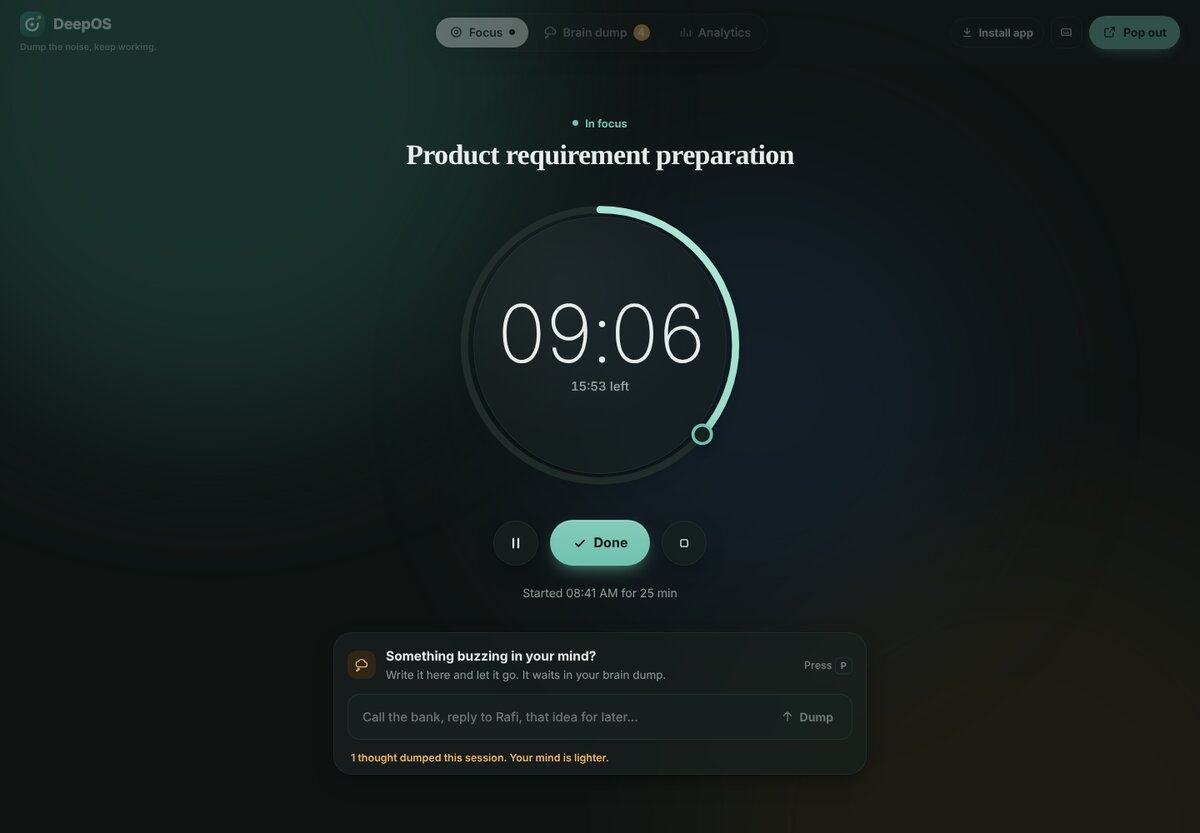
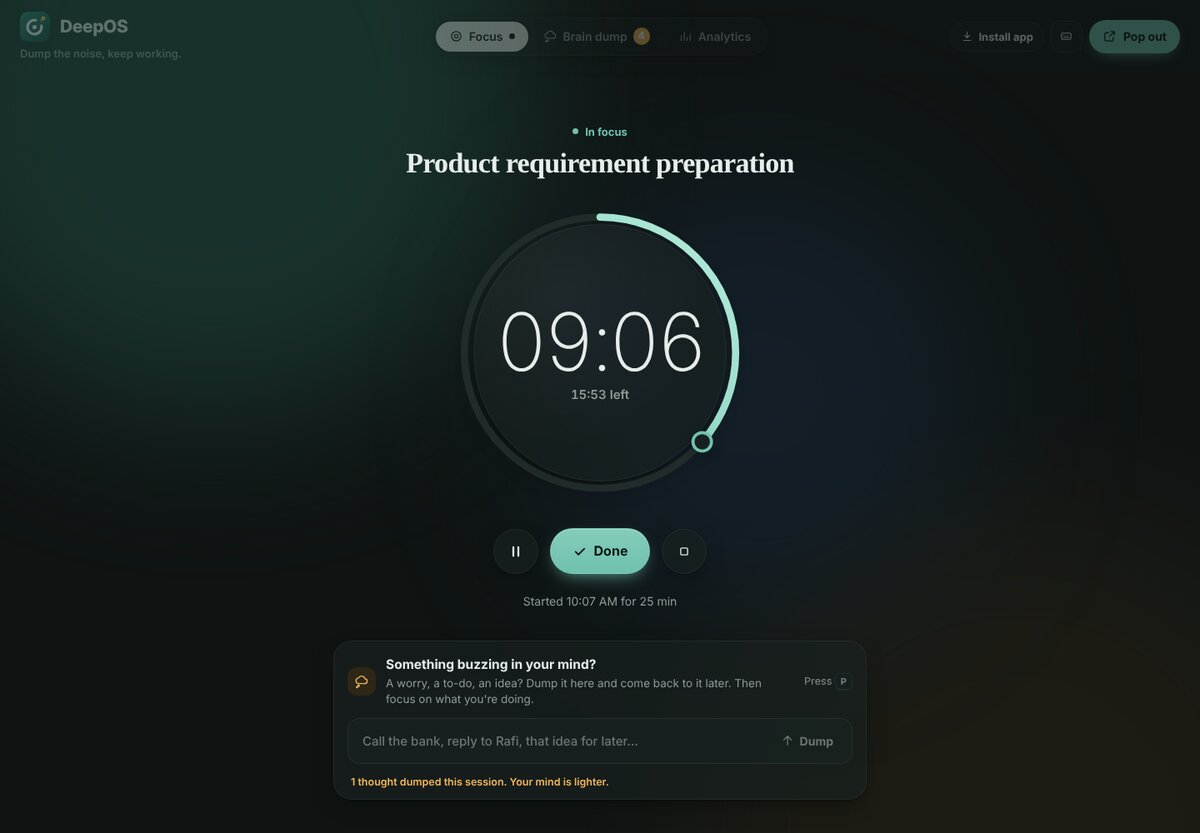
Dump box on the home screen; bigger brand with tagline everywhere
- Dump a thought before starting a session, not only during one (P works anytime)
- Friendlier explanation: 'A worry, a to-do, an idea? Dump it here and come back to it later. Then focus on what you're doing.'
- Larger logo, name and tagline; tagline now shows on tablets and phones
- README updated; screenshots refreshed

Claude-Session: https://claude.ai/code/session_01RPEeNiWPaepkLJj8Ye5Smc

diff --git a/src/components/ParkBox.tsx b/src/components/ParkBox.tsx
@@ -3,7 +3,7 @@ import { dispatch, useStore } from "../lib/store";
 import { ArrowUpIcon, ThoughtIcon } from "./Icons";
 
 interface Props {
-  task: string;
+  task: string | null;
   compact?: boolean;
 }
 
@@ -58,10 +58,10 @@ export const ParkBox = forwardRef<HTMLInputElement, Props>(function ParkBox({ ta
           </span>
           <div>
             <label htmlFor="park-input" className="park-title">
-              Something buzzing in your mind?
+              {task ? "Something buzzing in your mind?" : "Something on your mind before you start?"}
             </label>
             <p className="park-sub">
-              Write it here and let it go. It waits in your brain dump.
+              A worry, a to-do, an idea? Dump it here and come back to it later. Then focus on what you're doing.
             </p>
           </div>
           <span className="park-key">
@@ -79,7 +79,7 @@ export const ParkBox = forwardRef<HTMLInputElement, Props>(function ParkBox({ ta
           dispatch({ type: "park", text: value, now: Date.now() });
           if (!compact && formRef.current) floatToInbox(formRef.current, value);
           setText("");
-          setNote(`Off your mind. Back to ${task}.`);
+          setNote(task ? `Off your mind. Back to ${task}.` : "Off your mind. It's waiting in your brain dump.");
           (e.currentTarget.querySelector("input") as HTMLInputElement | null)?.blur();
         }}
       >

diff --git a/src/App.tsx b/src/App.tsx
@@ -84,13 +84,8 @@ export default function App() {
         focusSoon("task-input");
       } else if (k === "p" || k === "P") {
         e.preventDefault();
-        if (s.active) {
-          go("focus");
-          focusSoon("park-input");
-        } else {
-          go("inbox");
-          focusSoon("add-input");
-        }
+        go("focus");
+        focusSoon("park-input");
       } else if (k === " " && s.active) {
         e.preventDefault();
         dispatch({ type: s.active.pausedAt ? "resume" : "pause", now: Date.now() });
@@ -134,7 +129,7 @@ export default function App() {
       </div>
       <header className="topbar">
         <a className="brand" href="#focus" onClick={() => go("focus")} aria-label="DeepOS home">
-          <LogoMark size={30} />
+          <LogoMark size={36} />
           <span className="brand-name">DeepOS</span>
           <span className="brand-tag">
             Dump the noise, keep working.

diff --git a/src/styles.css b/src/styles.css
@@ -738,3 +738,11 @@ h3 { margin: 0; font-size: 13px; font-weight: 800; letter-spacing: 0.02em; color
 .chart-empty svg { width: 22px; height: 22px; color: var(--accent); margin-bottom: 4px; }
 .chart-empty b { color: var(--ink); font-size: 15px; }
 .chart-empty span { font-size: 13.5px; }
+
+/* bigger, more noticeable brand */
+.brand { column-gap: 12px; row-gap: 6px; }
+.brand .brand-name { font-size: 21px; }
+.brand .brand-tag { font-size: 13px; font-weight: 600; }
+.session.idle .park { margin-top: 4px; }
+@media (max-width: 1100px) { .brand { row-gap: 4px; } .brand .brand-tag { display: block; } }
+@media (max-width: 760px) { .brand .brand-tag { font-size: 12px; } .brand .brand-name { font-size: 19px; } }

diff --git a/src/components/FocusView.tsx b/src/components/FocusView.tsx
@@ -229,6 +229,8 @@ function StartScreen({ goInbox }: { goInbox: () => void }) {
         </button>
       )}
 
+      <ParkBox task={null} />
+
       {todays.length > 0 && (
         <ul className="today-line" aria-label="Today so far">
           <li>

diff --git a/README.md b/README.md
@@ -22,7 +22,7 @@ So I built a tool for my own workday: pick one task, start the timer, and when a
 ## How it works
 
 1. **Pick one thing.** Type the task right on the timer screen, choose 15, 25 or 45 minutes (or an open session) and press Start.
-2. **Dump what buzzes.** A thought shows up mid-task? Press `P`, type it, press `Enter`. It's saved, and you're back on your task.
+2. **Dump what buzzes.** A worry, a to-do or an idea, before you start or mid-task? Press `P`, type it, press `Enter`. It's saved, and you're back on your task.
 3. **Deal with it later.** After the session, open your brain dump and decide for each thought: start it now, or let it go.
 
 <p align="center">
